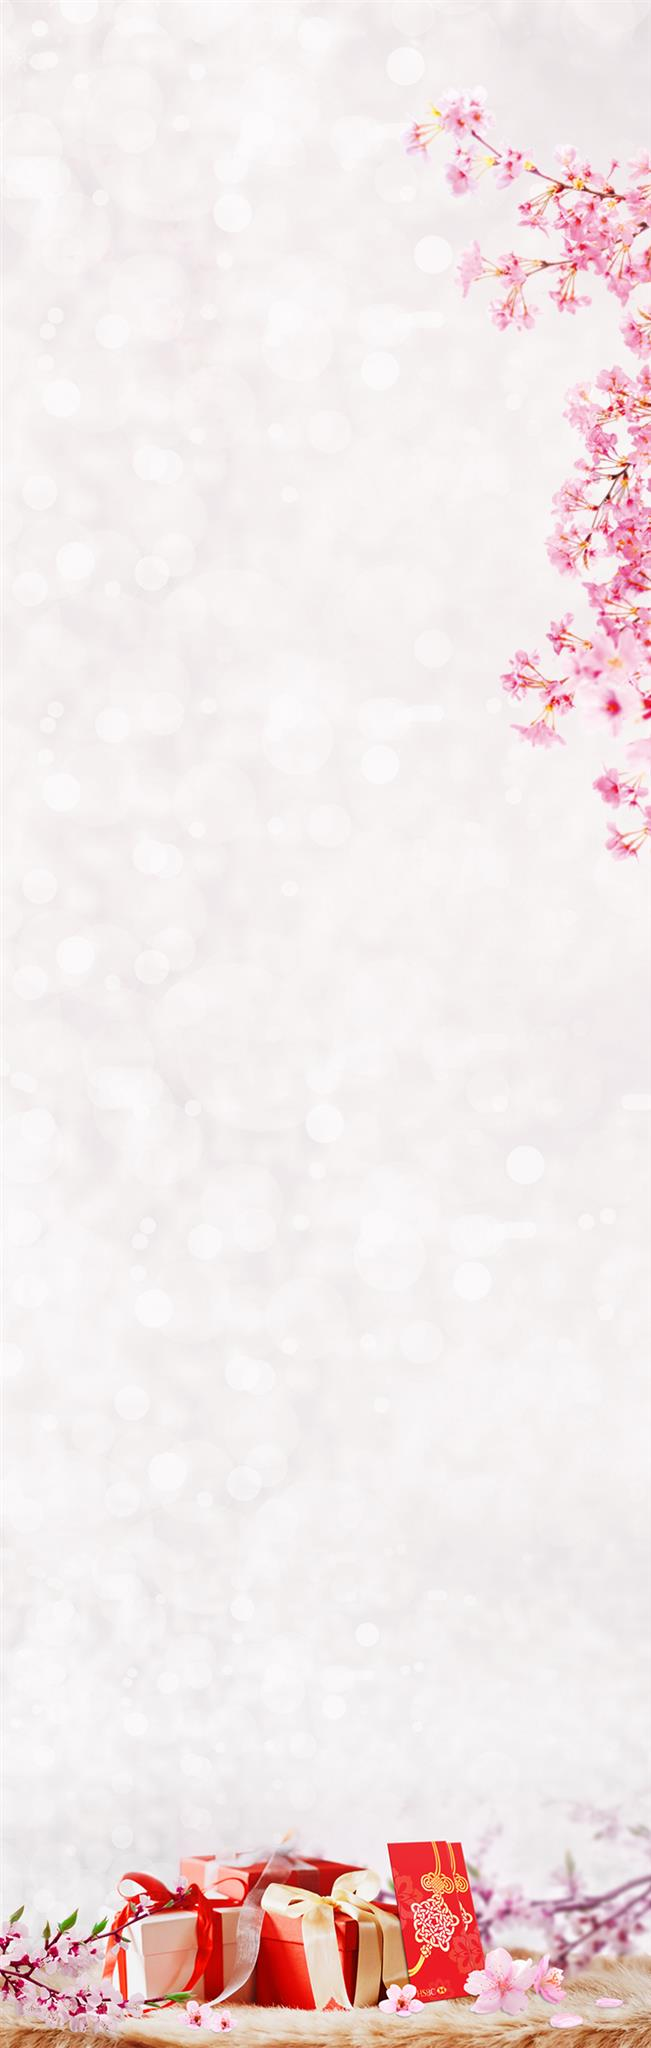
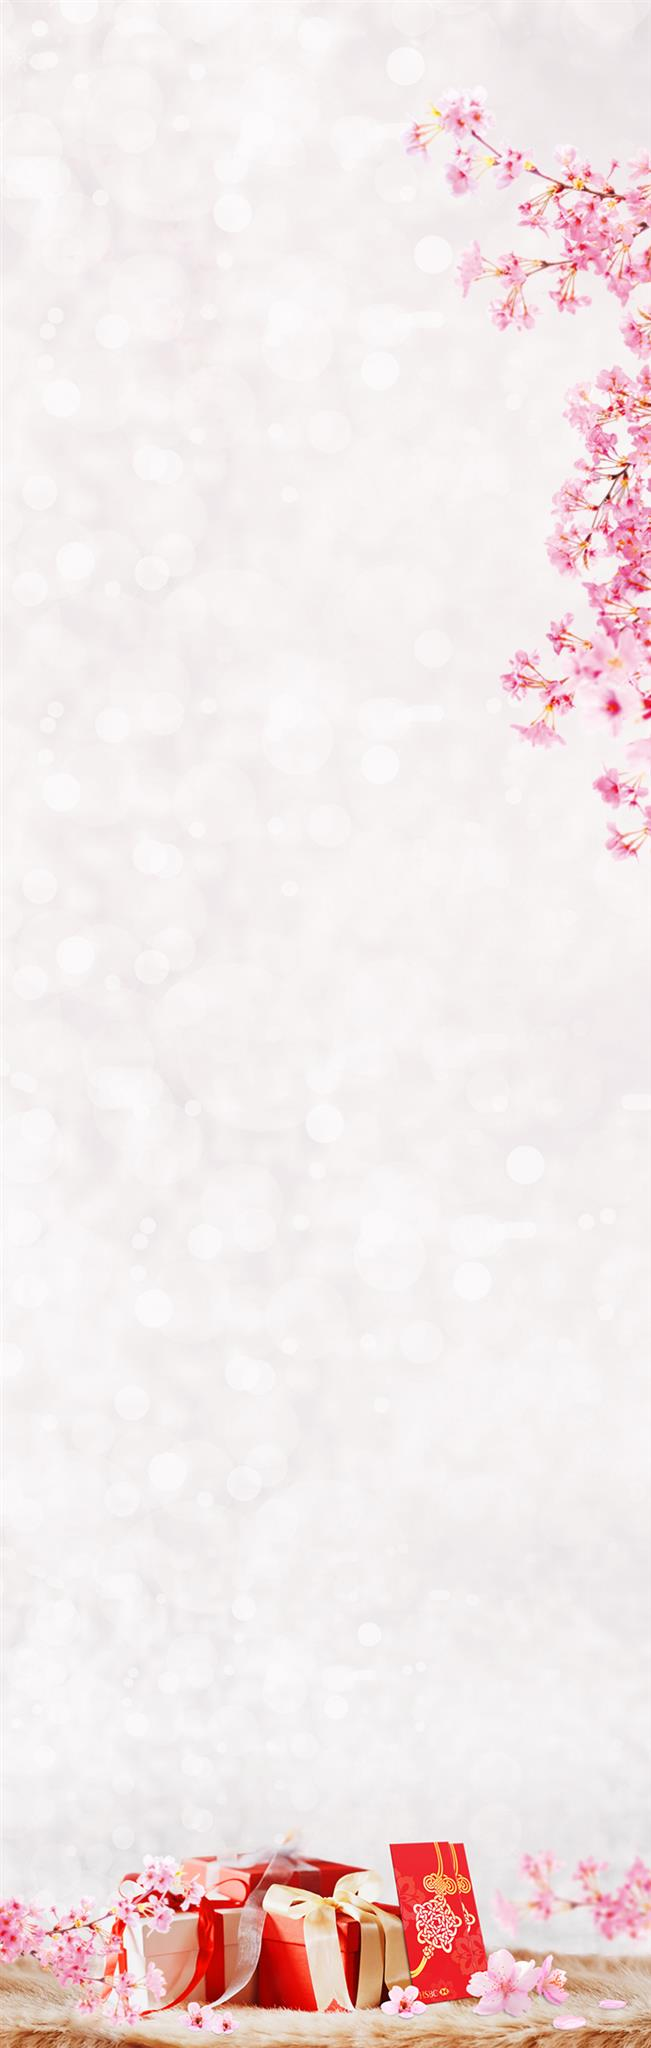
Update website

Changed region(s): [[0.0, 0.875, 1.0, 1.0]]

diff --git a/index_en.html b/index_en.html
@@ -7,7 +7,7 @@
 
   <link rel="stylesheet" href="https://cdnjs.cloudflare.com/ajax/libs/twitter-bootstrap/4.0.0-beta.3/css/bootstrap.min.css">
   <link rel="stylesheet" href="https://cdnjs.cloudflare.com/ajax/libs/font-awesome/4.7.0/css/font-awesome.min.css">
-  <link rel="stylesheet" href="css/style.css?time=012029122019">
+  <link rel="stylesheet" href="css/style.css?time=012029122020">
 </head>
 <body class="en">
   <div id="fb-root"></div>
@@ -32,7 +32,7 @@
   <section id="hero">
     <div style="position: relative; height: 100%">
       <div class="hero-caption">
-        <h1>
+        <h1 class="en">
           Spread your care, your love
           <br>
           around with Red Packet
@@ -106,10 +106,10 @@
           <div class="row">
             <div class="col-lg-4">
               <div class="form-group row budget-factor en">
-                <div class="col-4 col-md-5">
+                <div class="col-5 col-md-5">
                   <label for="grandparents">Grandparents</label>
                 </div>
-                <div class="col-8 col-md-7 column">
+                <div class="col-7 col-md-7 column">
                   <div class="budget-amount collapse">
                     <span></span>
                     <img src="" alt="">
@@ -122,10 +122,10 @@
                 </div>
               </div>
               <div class="form-group row budget-factor en">
-                <div class="col-4 col-md-5">
+                <div class="col-5 col-md-5">
                   <label for="parents">Parents</label>
                 </div>
-                <div class="col-8 col-md-7 column" style="position: relative;">
+                <div class="col-7 col-md-7 column" style="position: relative;">
                   <div class="budget-amount collapse">
                     <span></span>
                     <img src="" alt="">
@@ -138,10 +138,10 @@
                 </div>
               </div>
               <div class="form-group row budget-factor en">
-                <div class="col-4 col-md-5">
+                <div class="col-5 col-md-5">
                   <label for="spouse">Spouse</label>
                 </div>
-                <div class="col-8 col-md-7 column">
+                <div class="col-7 col-md-7 column">
                   <div class="budget-amount collapse">
                     <span></span>
                     <img src="" alt="">
@@ -156,10 +156,10 @@
             </div>
             <div class="col-lg-4">
               <div class="form-group row budget-factor en">
-                <div class="col-4 col-md-5">
+                <div class="col-5 col-md-5">
                   <label for="children">Children</label>
                 </div>
-                <div class="col-8 col-md-7 column">
+                <div class="col-7 col-md-7 column">
                   <div class="budget-amount collapse">
                     <span></span>
                     <img src="" alt="">
@@ -172,10 +172,10 @@
                 </div>
               </div>
               <div class="form-group row budget-factor en">
-                <div class="col-4 col-md-5">
+                <div class="col-5 col-md-5">
                   <label for="siblings">Siblings</label>
                 </div>
-                <div class="col-8 col-md-7 column">
+                <div class="col-7 col-md-7 column">
                   <div class="budget-amount collapse">
                     <span></span>
                     <img src="" alt="">
@@ -188,10 +188,10 @@
                 </div>
               </div>
               <div class="form-group row budget-factor en">
-                <div class="col-4 col-md-5">
+                <div class="col-5 col-md-5">
                   <label class="text-smaller" for="grandchildren">Nieces/Nephews</label>
                 </div>
-                <div class="col-8 col-md-7 column">
+                <div class="col-7 col-md-7 column">
                   <div class="budget-amount collapse">
                     <span></span>
                     <img src="" alt="">
@@ -206,10 +206,10 @@
             </div>
             <div class="col-lg-4">
               <div class="form-group row budget-factor en">
-                <div class="col-4 col-md-5">
+                <div class="col-5 col-md-5">
                   <label for="lover">Boy/Girlfriend</label>
                 </div>
-                <div class="col-8 col-md-7 column">
+                <div class="col-7 col-md-7 column">
                   <div class="budget-amount collapse">
                     <span></span>
                     <img src="" alt="">
@@ -222,10 +222,10 @@
                 </div>
               </div>
               <div class="form-group row budget-factor en">
-                <div class="col-4 col-md-5">
+                <div class="col-5 col-md-5">
                   <label for="friends">Friends</label>
                 </div>
-                <div class="col-8 col-md-7 column">
+                <div class="col-7 col-md-7 column">
                   <div class="budget-amount collapse">
                     <span></span>
                     <img src="" alt="">
@@ -238,10 +238,10 @@
                 </div>
               </div>
               <div class="form-group row budget-factor en">
-                <div class="col-4 col-md-5">
+                <div class="col-5 col-md-5">
                   <label for="colleagues">Colleagues</label>
                 </div>
-                <div class="col-8 col-md-7 column">
+                <div class="col-7 col-md-7 column">
                   <div class="budget-amount collapse">
                     <span></span>
                     <img src="" alt="">
@@ -256,9 +256,11 @@
             </div>
           </div>
           <div class="row">
-            <div class="space">
-              <div class="help-block text-danger collapse" style="font-size: 0.9rem;">
-                *You haven't select any friends or family
+            <div class="col-12">
+              <div class="space">
+                <div class="help-block text-danger collapse" style="font-size: 0.9rem;">
+                  *You haven't select any friends or family
+                </div>
               </div>
             </div>
           </div>

diff --git a/css/style.css b/css/style.css
@@ -185,6 +185,19 @@ a.color-red:hover {
         background-image: url('../images/mobile/key_375x220.jpg');
         height: 220px;
     }
+
+    #hero .hero-caption h1 {
+        font-size: 1.4rem;
+    }
+
+    #hero .hero-caption h1.en {
+        font-size: 1.3rem;
+    }
+
+    #hero .hero-caption {
+        padding-left: 20px;
+        padding-right: 20px;
+    }
 }
 
 
@@ -267,7 +280,7 @@ a.color-red:hover {
 }
 
 .redpacket-calculator-detail.result-detail {
-    background-image: url('../images/pc/gift_1120x1515.jpg?time=123');
+    background-image: url('../images/pc/gift_1170x1580.jpg?time=123');
     min-height: 1280px;
 }
 
@@ -364,6 +377,12 @@ a.color-red:hover {
         padding-left: 25px;
         padding-right: 25px;
         padding-top: 40px;
+        background-image: url('../images/pc/gift_1170x1580.jpg');
+        min-height: 940px;
+    }
+
+    .redpacket-calculator-detail.result-detail {
+        min-height: 1200px;
     }
 
     .redpacket-calculator-detail.en {
@@ -384,12 +403,15 @@ a.color-red:hover {
 
 @media (max-width: 991px) {
     .redpacket-calculator-detail {
-        background-image: url('../images/mobile/gift_750x2360.jpg');
+        background-image: url('../images/mobile/gift_750x2022.jpg');
         padding-left: 20px;
         padding-right: 20px;
-        padding-bottom: 350px;
-        background-size: 100% auto;
-        height: auto;
+        min-height: 1180px;
+    }
+
+    .redpacket-calculator-detail.result-detail {
+        background-image: url('../images/mobile/gift_750x2022.jpg');
+        min-height: 1420px;
     }
 
     .redpacket-calculator-detail .input-budget {
@@ -431,14 +453,18 @@ a.color-red:hover {
 
 @media (max-width: 767px) {
     .redpacket-calculator-detail {
-        padding-bottom: 270px !important;
-        background-size: 100% auto;
+        background-image: url('../images/mobile/gift_750x2022.jpg');
         padding: 25px 20px;
-        // background-size: cover;
+        min-height: 1180px;
+    }
+
+    .redpacket-calculator-detail.result-detail {
+        background-image: url('../images/mobile/gift_750x2022.jpg');
+        min-height: 1340px;
     }
 
     .redpacket-calculator-detail .input-budget {
-        margin-bottom: 10px;
+        margin-bottom: 0px;
     }
 
     .redpacket-calculator-detail .input-budget input {
@@ -487,14 +513,99 @@ a.color-red:hover {
     }
 }
 
-@media (max-width: 460px) {
+@media (max-width: 660px) {
     .redpacket-calculator-detail {
-        padding-bottom: 200px !important;
-        background-size: cover;
-        padding: 25px 20px;
-        // background-size: cover;
+        background-image: url('../images/mobile/gift_750x2022.jpg');
+        min-height: 1100px;
+    }
+
+    .redpacket-calculator-detail.result-detail {
+        background-image: url('../images/mobile/gift_750x2360.jpg');
+        min-height: 1340px;
     }
 }
+
+@media (max-width: 460px) {
+    .redpacket-calculator-detail {
+        background-image: url('../images/mobile/gift_750x2360.jpg');
+        min-height: 920px;
+        background-size: 100% auto;
+        padding: 25px 20px;
+    }
+
+    .redpacket-calculator-detail.en {
+        padding-top: 30px;
+    }
+
+    .redpacket-calculator-detail .space {
+        display: none;
+    }
+
+    .redpacket-calculator-factors {
+        padding-bottom: 20px;
+    }
+
+    .budget-factor {
+        margin-bottom: 7px;
+    }
+
+/*    .redpacket-calculator-detail.en {
+        padding-top: 20px;
+    }*/
+
+    .redpacket-calculator-detail .redpacket-calculator-result-note {
+        font-size: 0.85;
+        margin-bottom: 20px;
+    }
+
+    .redpacket-calculator-detail.result-detail {
+        min-height: unset;
+        padding-bottom: 200px;
+        background-size: cover;
+    }
+}
+
+@media (max-width: 375px) {
+    .redpacket-calculator-detail {
+        background-image: url('../images/mobile/gift_750x2360.jpg');
+        min-height: 890px;
+        padding: 25px 20px;
+    }
+
+    .redpacket-calculator-detail .space {
+        display: none;
+    }
+
+    .redpacket-calculator-detail {
+        padding-top: 20px;
+    }
+
+    .redpacket-calculator-detail.result-detail {
+        min-height: 1180px;
+    }
+
+    .redpacket-calculator-factors {
+        padding-bottom: 10px;
+    }
+
+    .redpacket-calculator-result strong {
+        font-size: 0.85rem;
+    }
+
+    .redpacket-amount-detail {
+        padding-top: 0px !important;
+        padding-bottom: 0px !important;
+    }
+
+    .redpacket-calculator-detail label {
+        font-size: 0.85rem;
+    }
+
+    #btn-calculate, #btn-recalculate {
+        padding: 7px 30px;
+    }
+}
+
 
 
 .redpacket-amount-detail {
@@ -872,12 +983,12 @@ a.color-red:hover {
     }
 
     #register-hsbc-credit h1 {
-        font-size: 1.2rem;
+        font-size: 1.1rem;
     }
 
     #register-hsbc-credit .description {
         font-size: 0.8rem;
-        padding: 0 30px;
+        padding: 0 25px;
     }
 
     .visa-cards {

diff --git a/index_vi.html b/index_vi.html
@@ -7,7 +7,7 @@
 
   <link rel="stylesheet" href="https://cdnjs.cloudflare.com/ajax/libs/twitter-bootstrap/4.0.0-beta.3/css/bootstrap.min.css">
   <link rel="stylesheet" href="https://cdnjs.cloudflare.com/ajax/libs/font-awesome/4.7.0/css/font-awesome.min.css">
-  <link rel="stylesheet" href="css/style.css?time=012029122019">
+  <link rel="stylesheet" href="css/style.css?time=012029122020">
 </head>
 <body>
   <div id="fb-root"></div>
@@ -245,7 +245,7 @@
               </div>
               <div class="form-group row budget-factor">
                 <div class="col-4 col-md-5">
-                  <label for="colleagues">Đồng nghiệp</label>
+                  <label class="text-smaller" for="colleagues">Đồng nghiệp</label>
                 </div>
                 <div class="col-8 col-md-7 column">
                   <div class="budget-amount collapse">
@@ -262,11 +262,14 @@
             </div>
           </div>
           <div class="row">
-            <div class="space">
-              <div class="help-block text-danger collapse" style="font-size: 0.9rem;">
-                *Bạn chưa chọn người nhận
+            <div class="col-12">
+              <div class="space">
+                <div class="help-block text-danger collapse" style="font-size: 0.9rem;">
+                  *Bạn chưa chọn người nhận
+                </div>
               </div>
             </div>
+
           </div>
         </div>
 
